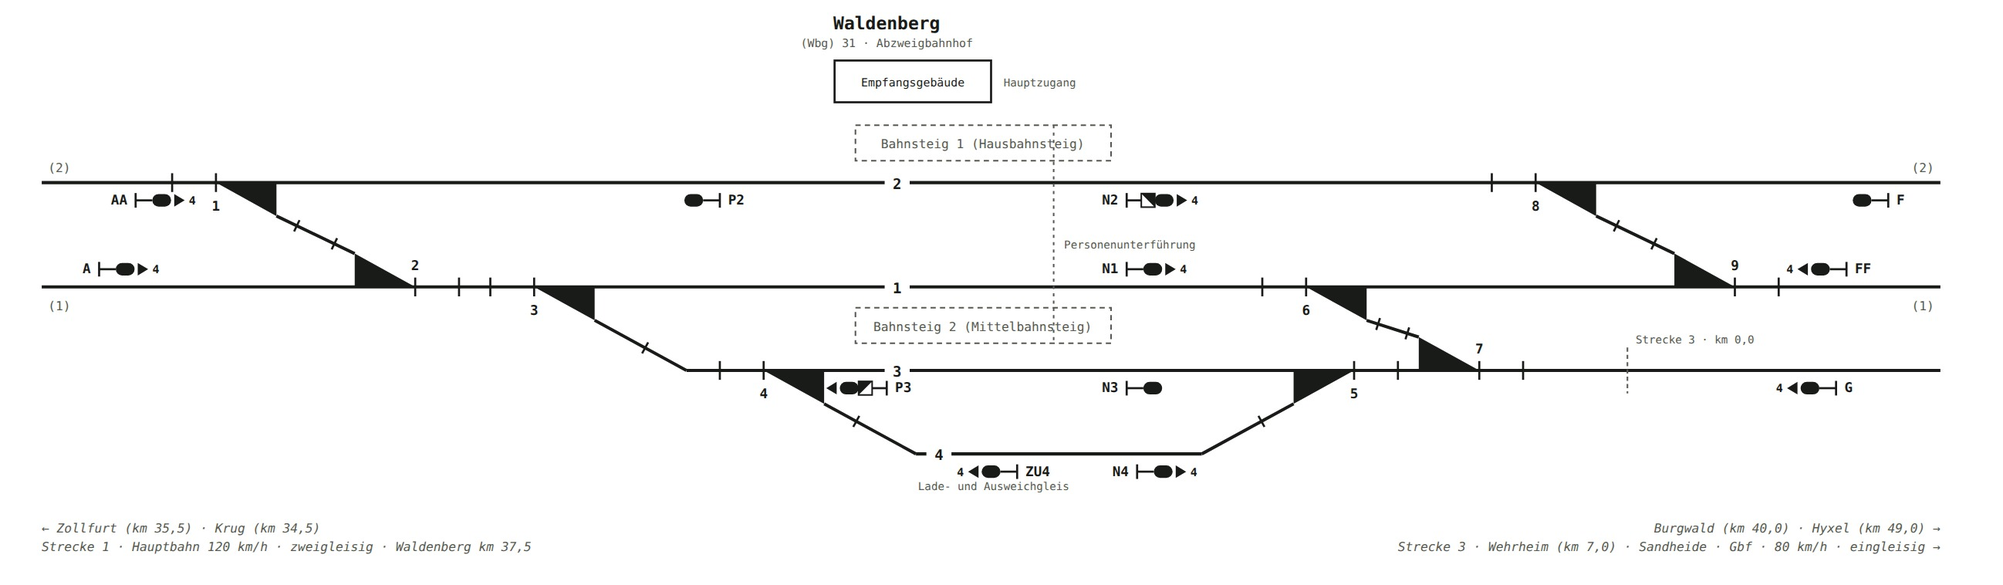
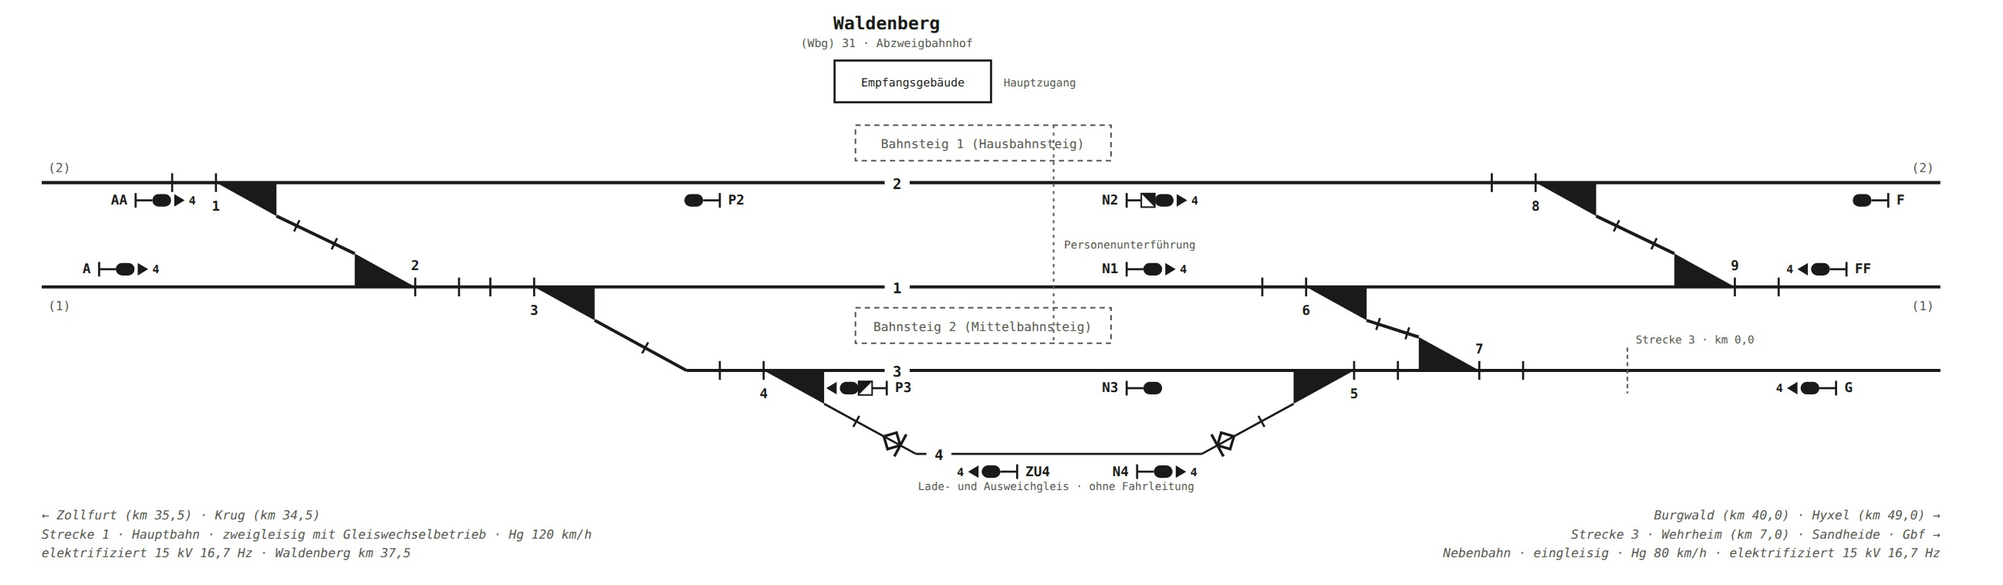
Waldenberg: Elektrifizierung darstellen
Einer der sieben geforderten Planungsinhalte des Aufgabenblattes fehlte
bisher vollstaendig.

Die Fahrleitung selbst gehoert nicht in den sicherungstechnischen
Lageplan – Ril 819.9002 fuehrt Schaltabschnittsgrenzen ausdruecklich mit
"keine Darstellung" und kennt nur ein Symbol fuer das nicht
elektrifizierte Gleis: eine Raute auf der Gleislinie mit senkrechtem
Strich, wobei der nicht elektrifizierte Bereich auf der Seite des
Striches liegt. Genau so ist es umgesetzt:

* Beide Strecken sind mit 15 kV 16,7 Hz elektrifiziert. Die Hauptbahn
  ist Bestandsstrecke, bei der Nebenbahn spart die Fahrleitung den
  sonst noetigen Traktionswechsel in Waldenberg – der Gueterverkehr zum
  Gbf und die Anschliesser Grossraffinerie und Getreidesilo liegen an
  dieser Strecke.
* Gleis 4 bleibt ohne Fahrleitung, weil unter Fahrdraht nicht be- und
  entladen werden darf. Das Symbol steht auf beiden Verbindungsrampen,
  nach Ril vom Weichensymbol weg in den nicht elektrifizierten Bereich
  verschoben.
* Gleis 4 ist Nebengleis und wird nach Ril 819.9002 Abschnitt 12 mit
  duennerer Gleislinie gezeichnet.
* Die Richtungshinweise an den Blatzraendern sind zu Streckenangaben im
  Ril-Muster erweitert: Bahnart, Gleiszahl, Hg und Elektrifizierung.

Legenden beider Blaetter und die Begleittexte sind mitgezogen; die
Legende des Zeichnungsblattes hat dafuer sieben statt sechs Felder.

Claude-Session: https://claude.ai/code/session_01946ufwtxKyfXxUR2Dq2NLD

diff --git a/lageplan-waldenberg.html b/lageplan-waldenberg.html
@@ -103,13 +103,13 @@
     </p>
 
     <div class="diagram-scroll">
-      <svg class="plan" viewBox="0 0 1920 560" role="img" aria-label="Sicherungstechnischer Lageplan des Abzweigbahnhofs Waldenberg. Die zweigleisige Hauptbahn (Strecke 1, Krug–Furth, km 37,5) läuft mit Gleis 2 (oben) und Gleis 1 (Mitte) durchgehend gerade durch die Betriebsstelle. Gleis 3 ist Bahnsteiggleis der eingleisigen Nebenbahn und geht östlich in die Strecke 3 nach Wehrheim–Sandheide–Gbf über, deren Kilometrierung hier bei km 0,0 beginnt. Gleis 4 liegt als Lade- und Ausweichgleis südlich davon und ist über die Weichen 4 und 5 an beiden Enden an Gleis 3 angebunden. Am Westkopf verbinden die Weichen 1 und 2 als Überleitverbinder Gleis 2 und Gleis 1, Weiche 3 führt von Gleis 1 auf Gleis 3. Am Ostkopf verbinden die Weichen 6 und 7 Gleis 1 mit der Nebenbahn, die Weichen 8 und 9 bilden einen zweiten Überleitverbinder zwischen Gleis 2 und Gleis 1. Bahnsteig 1 ist Hausbahnsteig an Gleis 2 am Empfangsgebäude, Bahnsteig 2 Mittelbahnsteig zwischen Gleis 1 und Gleis 3, verbunden über eine Personenunterführung. Einfahrsignale A und AA von Zollfurt, F und FF von Burgwald sowie G von Wehrheim; Ausfahrsignale N1, N2, N3, N4, P2 und P3 sowie Zwischensignal ZU4; N2 und P3 mit Gegengleisanzeiger für die Weiterfahrt auf dem Streckengleis der Gegenrichtung.">
+      <svg class="plan" viewBox="0 0 1920 560" role="img" aria-label="Sicherungstechnischer Lageplan des Abzweigbahnhofs Waldenberg. Die zweigleisige Hauptbahn (Strecke 1, Krug–Furth, km 37,5) läuft mit Gleis 2 (oben) und Gleis 1 (Mitte) durchgehend gerade durch die Betriebsstelle. Gleis 3 ist Bahnsteiggleis der eingleisigen Nebenbahn und geht östlich in die Strecke 3 nach Wehrheim–Sandheide–Gbf über, deren Kilometrierung hier bei km 0,0 beginnt. Gleis 4 liegt als Lade- und Ausweichgleis südlich davon und ist über die Weichen 4 und 5 an beiden Enden an Gleis 3 angebunden. Am Westkopf verbinden die Weichen 1 und 2 als Überleitverbinder Gleis 2 und Gleis 1, Weiche 3 führt von Gleis 1 auf Gleis 3. Am Ostkopf verbinden die Weichen 6 und 7 Gleis 1 mit der Nebenbahn, die Weichen 8 und 9 bilden einen zweiten Überleitverbinder zwischen Gleis 2 und Gleis 1. Bahnsteig 1 ist Hausbahnsteig an Gleis 2 am Empfangsgebäude, Bahnsteig 2 Mittelbahnsteig zwischen Gleis 1 und Gleis 3, verbunden über eine Personenunterführung. Einfahrsignale A und AA von Zollfurt, F und FF von Burgwald sowie G von Wehrheim; Ausfahrsignale N1, N2, N3, N4, P2 und P3 sowie Zwischensignal ZU4; N2 und P3 mit Gegengleisanzeiger für die Weiterfahrt auf dem Streckengleis der Gegenrichtung. Beide Strecken sind mit 15 kV 16,7 Hz elektrifiziert; Gleis 4 ist nicht elektrifiziert und an beiden Verbindungsrampen mit dem Symbol für nicht elektrifiziertes Gleis gekennzeichnet.">
         <text x="850" y="28" text-anchor="middle" font-size="17" font-weight="700" fill="currentColor">Waldenberg</text>
         <text x="850" y="45" text-anchor="middle" font-size="11" fill="var(--ink-soft)">(Wbg) 31 · Abzweigbahnhof</text>
         <g stroke="currentColor" fill="none" stroke-width="3"><line x1="40" y1="275" x2="1860" y2="275"/><line x1="40" y1="175" x2="1860" y2="175"/></g>
         <g stroke="currentColor" fill="none" stroke-width="3"><line x1="658" y1="355" x2="1860" y2="355"/></g>
-        <line x1="878" y1="435" x2="1152" y2="435" stroke="currentColor" fill="none" stroke-width="3"/>
-        <text x="880" y="470" font-size="10.5" fill="var(--ink-soft)">Lade- und Ausweichgleis</text>
+        <line x1="878" y1="435" x2="1152" y2="435" stroke="currentColor" fill="none" stroke-width="2"/>
+        <text x="880" y="470" font-size="10.5" fill="var(--ink-soft)">Lade- und Ausweichgleis · ohne Fahrleitung</text>
         <line x1="165" y1="166" x2="165" y2="184" stroke="currentColor" stroke-width="2"/>
 <line x1="207" y1="166" x2="207" y2="184" stroke="currentColor" stroke-width="2"/>
 <polygon points="207,175 265,175 265,207" fill="currentColor"/>
@@ -131,14 +131,16 @@
 <line x1="732" y1="346" x2="732" y2="364" stroke="currentColor" stroke-width="2"/>
 <polygon points="732,355 790,355 790,387" fill="currentColor"/>
 <text x="732" y="382" text-anchor="middle" font-size="13" font-weight="600" fill="currentColor">4</text>
-        <line x1="790" y1="387" x2="878" y2="435" stroke="currentColor" stroke-width="3"/>
+        <line x1="790" y1="387" x2="878" y2="435" stroke="currentColor" stroke-width="2"/>
         <line x1="817.9" y1="409.1" x2="823.7" y2="398.5" stroke="currentColor" stroke-width="2"/>
+        <g transform="translate(855.1,422.5) rotate(28.61)"><polygon points="-9,0 0,-9 9,0 0,9" fill="none" stroke="currentColor" stroke-width="2.5"/><line x1="9" y1="-12" x2="9" y2="12" stroke="currentColor" stroke-width="2.5"/></g>
         <line x1="1340" y1="346" x2="1340" y2="364" stroke="currentColor" stroke-width="2"/>
 <line x1="1298" y1="346" x2="1298" y2="364" stroke="currentColor" stroke-width="2"/>
 <polygon points="1298,355 1240,355 1240,387" fill="currentColor"/>
 <text x="1298" y="382" text-anchor="middle" font-size="13" font-weight="600" fill="currentColor">5</text>
-        <line x1="1240" y1="387" x2="1152" y2="435" stroke="currentColor" stroke-width="3"/>
+        <line x1="1240" y1="387" x2="1152" y2="435" stroke="currentColor" stroke-width="2"/>
         <line x1="1206.3" y1="398.5" x2="1212.1" y2="409.1" stroke="currentColor" stroke-width="2"/>
+        <g transform="translate(1174.9,422.5) rotate(151.39)"><polygon points="-9,0 0,-9 9,0 0,9" fill="none" stroke="currentColor" stroke-width="2.5"/><line x1="9" y1="-12" x2="9" y2="12" stroke="currentColor" stroke-width="2.5"/></g>
         <line x1="1210" y1="266" x2="1210" y2="284" stroke="currentColor" stroke-width="2"/>
 <line x1="1252" y1="266" x2="1252" y2="284" stroke="currentColor" stroke-width="2"/>
 <polygon points="1252,275 1310,275 1310,307" fill="currentColor"/>
@@ -235,7 +237,7 @@
 <text x="1768" y="376" font-size="13" font-weight="600" fill="currentColor">G</text>
         <line x1="1560" y1="333" x2="1560" y2="377" stroke="var(--ink-soft)" stroke-width="1.5" stroke-dasharray="4,3"/>
         <text x="1568" y="329" font-size="10.5" fill="var(--ink-soft)">Strecke 3 · km 0,0</text>
-        <g fill="var(--ink-soft)" font-size="12" font-style="italic"><text x="40" y="510">← Zollfurt (km 35,5) · Krug (km 34,5)</text><text x="40" y="528">Strecke 1 · Hauptbahn 120 km/h · zweigleisig · Waldenberg km 37,5</text><text x="1860" y="510" text-anchor="end">Burgwald (km 40,0) · Hyxel (km 49,0) →</text><text x="1860" y="528" text-anchor="end">Strecke 3 · Wehrheim (km 7,0) · Sandheide · Gbf · 80 km/h · eingleisig →</text></g>
+        <g fill="var(--ink-soft)" font-size="12" font-style="italic"><text x="40" y="498">← Zollfurt (km 35,5) · Krug (km 34,5)</text><text x="40" y="516">Strecke 1 · Hauptbahn · zweigleisig mit Gleiswechselbetrieb · Hg 120 km/h</text><text x="40" y="534">elektrifiziert 15 kV 16,7 Hz · Waldenberg km 37,5</text><text x="1860" y="498" text-anchor="end">Burgwald (km 40,0) · Hyxel (km 49,0) →</text><text x="1860" y="516" text-anchor="end">Strecke 3 · Wehrheim (km 7,0) · Sandheide · Gbf →</text><text x="1860" y="534" text-anchor="end">Nebenbahn · eingleisig · Hg 80 km/h · elektrifiziert 15 kV 16,7 Hz</text></g>
       </svg>
     </div>
 
@@ -252,6 +254,9 @@
       <span>AA und FF decken Einfahrten von Zügen, die auf der freien Strecke bereits auf dem Gegengleis ankommen.</span>
       <span>Gleis 3 und die Anbindung Gleis 1 → Nebenbahn (Weichen 6/7) sind voneinander unabhängig befahrbar.</span>
       <span>Gleis 4 ist Lade- und Ausweichgleis ohne Bahnsteig, an beiden Enden an Gleis 3 angebunden.</span>
+      <span>Beide Strecken elektrifiziert 15 kV 16,7 Hz. Die Fahrleitung selbst wird im sicherungstechnischen Lageplan nicht dargestellt; Schaltabschnittsgrenzen bleiben nach Ril 819.9002 ohne Darstellung.</span>
+      <span>Gleis 4 ohne Fahrleitung: unter Fahrdraht darf nicht be- und entladen werden. Gekennzeichnet mit dem Symbol „nicht elektrifiziertes Gleis“ – der Strich steht auf der nicht elektrifizierten Seite.</span>
+      <span>Gleis 4 ist Nebengleis und deshalb mit dünnerer Gleislinie gezeichnet (Ril 819.9002 Abschnitt 12).</span>
     </div>
   </section>
 
@@ -318,6 +323,23 @@
           </table>
         </div>
       </div>
+    </div>
+
+    <div class="caveat">
+      <strong>Elektrifizierung:</strong> Die Hauptbahn Krug–Furth ist Bestandsstrecke und damit
+      nach Vorgabe elektrifiziert. Die Nebenbahn Waldenberg–Gbf bekommt ebenfalls Fahrleitung:
+      Der gesamte Güterverkehr zum Güterbahnhof sowie die Anschließer Großraffinerie und
+      Getreidesilo liegen an dieser Strecke, und die Reisezüge gehen durchgehend von der
+      Hauptbahn auf die Nebenbahn über. Ohne Fahrleitung bräuchte jeder dieser Züge in
+      Waldenberg einen Traktionswechsel – also ein zusätzliches Gleis zum Umsetzen,
+      Rangierpersonal und Standzeit, und das täglich mehrfach. Die Fahrleitung über 29,5 km
+      ist dagegen einmalige Investition ohne laufenden Betriebsaufwand.
+      <strong>Gleis 4 bleibt bewusst ohne Fahrleitung</strong>, weil unter Fahrdraht nicht be-
+      und entladen werden darf; der Übergabezug Üg 1 wird dort mit Diesel bedient. Als
+      Überholungsgleis für elektrische Züge steht Gleis 4 damit nicht zur Verfügung – dafür
+      gibt es Gleis 3. Im sicherungstechnischen Lageplan wird die Fahrleitung selbst nicht
+      gezeichnet; dargestellt wird nach Ril 819.9002 Abschnitt 12 nur, welches Gleis
+      <em>nicht</em> elektrifiziert ist.
     </div>
 
     <div class="caveat">
@@ -393,6 +415,14 @@
           <rect x="2" y="3" width="30" height="13" fill="none" stroke="currentColor" stroke-width="2"/>
         </svg>
         <span>Gebäude (Empfangsgebäude)</span>
+      </div>
+      <div class="legend-item">
+        <svg width="46" height="22" viewBox="0 0 46 22" aria-hidden="true">
+          <line x1="0" y1="11" x2="46" y2="11" stroke="currentColor" stroke-width="2"/>
+          <polygon points="14,11 22,3 30,11 22,19" fill="none" stroke="currentColor" stroke-width="2"/>
+          <line x1="30" y1="1" x2="30" y2="21" stroke="currentColor" stroke-width="2"/>
+        </svg>
+        <span>Nicht elektrifiziertes Gleis – der nicht elektrifizierte Bereich liegt auf der Seite des Striches</span>
       </div>
     </div>
   </section>

diff --git a/zeichnung-waldenberg.html b/zeichnung-waldenberg.html
@@ -22,8 +22,8 @@
         <text x="850" y="45" text-anchor="middle" font-size="11" fill="#333333">(Wbg) 31 · Abzweigbahnhof</text>
         <g stroke="#000000" fill="none" stroke-width="3"><line x1="40" y1="275" x2="1860" y2="275"/><line x1="40" y1="175" x2="1860" y2="175"/></g>
         <g stroke="#000000" fill="none" stroke-width="3"><line x1="658" y1="355" x2="1860" y2="355"/></g>
-        <line x1="878" y1="435" x2="1152" y2="435" stroke="#000000" fill="none" stroke-width="3"/>
-        <text x="880" y="470" font-size="10.5" fill="#333333">Lade- und Ausweichgleis</text>
+        <line x1="878" y1="435" x2="1152" y2="435" stroke="#000000" fill="none" stroke-width="2"/>
+        <text x="880" y="470" font-size="10.5" fill="#333333">Lade- und Ausweichgleis · ohne Fahrleitung</text>
         <line x1="165" y1="166" x2="165" y2="184" stroke="#000000" stroke-width="2"/>
 <line x1="207" y1="166" x2="207" y2="184" stroke="#000000" stroke-width="2"/>
 <polygon points="207,175 265,175 265,207" fill="#000000"/>
@@ -45,14 +45,16 @@
 <line x1="732" y1="346" x2="732" y2="364" stroke="#000000" stroke-width="2"/>
 <polygon points="732,355 790,355 790,387" fill="#000000"/>
 <text x="732" y="382" text-anchor="middle" font-size="13" font-weight="600" fill="#000000">4</text>
-        <line x1="790" y1="387" x2="878" y2="435" stroke="#000000" stroke-width="3"/>
+        <line x1="790" y1="387" x2="878" y2="435" stroke="#000000" stroke-width="2"/>
         <line x1="817.9" y1="409.1" x2="823.7" y2="398.5" stroke="#000000" stroke-width="2"/>
+        <g transform="translate(855.1,422.5) rotate(28.61)"><polygon points="-9,0 0,-9 9,0 0,9" fill="none" stroke="#000000" stroke-width="2.5"/><line x1="9" y1="-12" x2="9" y2="12" stroke="#000000" stroke-width="2.5"/></g>
         <line x1="1340" y1="346" x2="1340" y2="364" stroke="#000000" stroke-width="2"/>
 <line x1="1298" y1="346" x2="1298" y2="364" stroke="#000000" stroke-width="2"/>
 <polygon points="1298,355 1240,355 1240,387" fill="#000000"/>
 <text x="1298" y="382" text-anchor="middle" font-size="13" font-weight="600" fill="#000000">5</text>
-        <line x1="1240" y1="387" x2="1152" y2="435" stroke="#000000" stroke-width="3"/>
+        <line x1="1240" y1="387" x2="1152" y2="435" stroke="#000000" stroke-width="2"/>
         <line x1="1206.3" y1="398.5" x2="1212.1" y2="409.1" stroke="#000000" stroke-width="2"/>
+        <g transform="translate(1174.9,422.5) rotate(151.39)"><polygon points="-9,0 0,-9 9,0 0,9" fill="none" stroke="#000000" stroke-width="2.5"/><line x1="9" y1="-12" x2="9" y2="12" stroke="#000000" stroke-width="2.5"/></g>
         <line x1="1210" y1="266" x2="1210" y2="284" stroke="#000000" stroke-width="2"/>
 <line x1="1252" y1="266" x2="1252" y2="284" stroke="#000000" stroke-width="2"/>
 <polygon points="1252,275 1310,275 1310,307" fill="#000000"/>
@@ -149,29 +151,32 @@
 <text x="1768" y="376" font-size="13" font-weight="600" fill="#000000">G</text>
         <line x1="1560" y1="333" x2="1560" y2="377" stroke="#333333" stroke-width="1.5" stroke-dasharray="4,3"/>
         <text x="1568" y="329" font-size="10.5" fill="#333333">Strecke 3 · km 0,0</text>
-        <g fill="#333333" font-size="12" font-style="italic"><text x="40" y="510">← Zollfurt (km 35,5) · Krug (km 34,5)</text><text x="40" y="528">Strecke 1 · Hauptbahn 120 km/h · zweigleisig · Waldenberg km 37,5</text><text x="1860" y="510" text-anchor="end">Burgwald (km 40,0) · Hyxel (km 49,0) →</text><text x="1860" y="528" text-anchor="end">Strecke 3 · Wehrheim (km 7,0) · Sandheide · Gbf · 80 km/h · eingleisig →</text></g>
+        <g fill="#333333" font-size="12" font-style="italic"><text x="40" y="498">← Zollfurt (km 35,5) · Krug (km 34,5)</text><text x="40" y="516">Strecke 1 · Hauptbahn · zweigleisig mit Gleiswechselbetrieb · Hg 120 km/h</text><text x="40" y="534">elektrifiziert 15 kV 16,7 Hz · Waldenberg km 37,5</text><text x="1860" y="498" text-anchor="end">Burgwald (km 40,0) · Hyxel (km 49,0) →</text><text x="1860" y="516" text-anchor="end">Strecke 3 · Wehrheim (km 7,0) · Sandheide · Gbf →</text><text x="1860" y="534" text-anchor="end">Nebenbahn · eingleisig · Hg 80 km/h · elektrifiziert 15 kV 16,7 Hz</text></g>
 </g>
 <g font-family="IBM Plex Mono, monospace">
 <rect x="60" y="900" width="940" height="176" fill="none" stroke="#000" stroke-width="1.5"/>
-<g transform="translate(66,974)"><line x1="0" y1="8" x2="52" y2="8" stroke="#000" stroke-width="1.5"/><line x1="5" y1="3" x2="5" y2="13" stroke="#000" stroke-width="1.2"/><line x1="18" y1="3" x2="18" y2="13" stroke="#000" stroke-width="1.2"/><polygon points="18,8 36,8 36,17" fill="#000"/></g>
-<text x="138" y="992" font-size="10" fill="#000">Weiche fern</text>
-<line x1="216.667" y1="900" x2="216.667" y2="1076" stroke="#000" stroke-width="1"/>
-<g transform="translate(226.667,979)"><line x1="2" y1="1" x2="2" y2="15" stroke="#000" stroke-width="1.5"/><line x1="2" y1="8" x2="14" y2="8" stroke="#000" stroke-width="1.5"/><rect x="14" y="2" width="16" height="11" rx="5.5" fill="#000"/></g>
-<text x="294.667" y="992" font-size="10" fill="#000">Ks-Signal</text>
-<line x1="373.333" y1="900" x2="373.333" y2="1076" stroke="#000" stroke-width="1"/>
-<g transform="translate(383.333,979)"><rect x="2" y="2" width="24" height="13" fill="none" stroke="#000" stroke-width="1.5"/></g>
-<text x="451.333" y="992" font-size="10" fill="#000">Gebäude</text>
-<line x1="530" y1="900" x2="530" y2="1076" stroke="#000" stroke-width="1"/>
-<g transform="translate(540,979)"><line x1="2" y1="1" x2="2" y2="15" stroke="#000" stroke-width="1.5"/><line x1="2" y1="8" x2="14" y2="8" stroke="#000" stroke-width="1.5"/><rect x="14" y="2" width="16" height="11" rx="5.5" fill="#000"/><polygon points="33,2 42,8 33,14" fill="#000"/></g>
-<text x="608" y="992" font-size="10" fill="#000">Zs 3</text>
-<line x1="686.667" y1="900" x2="686.667" y2="1076" stroke="#000" stroke-width="1"/>
-<g transform="translate(696.667,979)"><line x1="0" y1="8" x2="26" y2="8" stroke="#000" stroke-width="1.5"/><rect x="8" y="1" width="12" height="14" fill="#fff" stroke="#000" stroke-width="1"/><text x="14" y="12" text-anchor="middle" font-size="10" font-weight="600" fill="#000">1</text></g>
-<text x="764.667" y="992" font-size="10" fill="#000">Gleisnr.</text>
-<line x1="843.333" y1="900" x2="843.333" y2="1076" stroke="#000" stroke-width="1"/>
-<g transform="translate(853.333,972)"><line x1="0" y1="8" x2="26" y2="8" stroke="#000" stroke-width="1.5" stroke-dasharray="3,3"/><text x="13" y="26" text-anchor="middle" font-size="9" fill="#000">km 0,0</text></g>
-<text x="915" y="992" font-size="9.5" fill="#000">Streckengrenze</text>
+<g transform="translate(66.00,974)"><line x1="0" y1="8" x2="50" y2="8" stroke="#000" stroke-width="1.5"/><line x1="5" y1="3" x2="5" y2="13" stroke="#000" stroke-width="1.2"/><line x1="17" y1="3" x2="17" y2="13" stroke="#000" stroke-width="1.2"/><polygon points="17,8 34,8 34,17" fill="#000"/></g>
+<text x="122.00" y="992" font-size="9" fill="#000">Weiche fern</text>
+<line x1="194.29" y1="900" x2="194.29" y2="1076" stroke="#000" stroke-width="1"/>
+<g transform="translate(200.29,979)"><line x1="2" y1="1" x2="2" y2="15" stroke="#000" stroke-width="1.5"/><line x1="2" y1="8" x2="14" y2="8" stroke="#000" stroke-width="1.5"/><rect x="14" y="2" width="16" height="11" rx="5.5" fill="#000"/></g>
+<text x="256.29" y="992" font-size="9" fill="#000">Ks-Signal</text>
+<line x1="328.57" y1="900" x2="328.57" y2="1076" stroke="#000" stroke-width="1"/>
+<g transform="translate(334.57,979)"><line x1="2" y1="1" x2="2" y2="15" stroke="#000" stroke-width="1.5"/><line x1="2" y1="8" x2="14" y2="8" stroke="#000" stroke-width="1.5"/><rect x="14" y="2" width="16" height="11" rx="5.5" fill="#000"/><polygon points="33,2 42,8 33,14" fill="#000"/></g>
+<text x="390.57" y="992" font-size="9" fill="#000">Zs 3</text>
+<line x1="462.86" y1="900" x2="462.86" y2="1076" stroke="#000" stroke-width="1"/>
+<g transform="translate(468.86,979)"><line x1="0" y1="8" x2="26" y2="8" stroke="#000" stroke-width="1.5"/><rect x="8" y="1" width="12" height="14" fill="#fff" stroke="#000" stroke-width="1"/><text x="14" y="12" text-anchor="middle" font-size="10" font-weight="600" fill="#000">1</text></g>
+<text x="524.86" y="992" font-size="9" fill="#000">Gleisnr.</text>
+<line x1="597.14" y1="900" x2="597.14" y2="1076" stroke="#000" stroke-width="1"/>
+<g transform="translate(603.14,979)"><rect x="2" y="2" width="22" height="12" fill="none" stroke="#000" stroke-width="1.5"/></g>
+<text x="659.14" y="992" font-size="9" fill="#000">Gebäude</text>
+<line x1="731.43" y1="900" x2="731.43" y2="1076" stroke="#000" stroke-width="1"/>
+<g transform="translate(737.43,972)"><line x1="0" y1="8" x2="26" y2="8" stroke="#000" stroke-width="1.5" stroke-dasharray="3,3"/><text x="13" y="26" text-anchor="middle" font-size="8.5" fill="#000">km 0,0</text></g>
+<text x="793.43" y="992" font-size="9" fill="#000">Str.-Grenze</text>
+<line x1="865.71" y1="900" x2="865.71" y2="1076" stroke="#000" stroke-width="1"/>
+<g transform="translate(871.71,979)"><line x1="0" y1="8" x2="40" y2="8" stroke="#000" stroke-width="1.5"/><polygon points="11,8 18,1 25,8 18,15" fill="none" stroke="#000" stroke-width="1.5"/><line x1="25" y1="0" x2="25" y2="16" stroke="#000" stroke-width="1.5"/></g>
+<text x="927.71" y="992" font-size="9" fill="#000">o. Fahrltg.</text>
 </g>
-<text x="68" y="1094" font-size="10" fill="#000" font-family="IBM Plex Mono, monospace">Alle Weichen EW 1:9, 40 km/h · Gegengleisanzeiger an N2 und P3 · AA und FF für Ankunft auf dem Gegengleis · Gleis 4 = Lade- und Ausweichgleis</text>
+<text x="68" y="1094" font-size="10" fill="#000" font-family="IBM Plex Mono, monospace">Alle Weichen EW 1:9, 40 km/h · Gegengleisanzeiger an N2 und P3 · beide Strecken elektrifiziert 15 kV 16,7 Hz · Gleis 4 = Lade- und Ausweichgleis, Nebengleis ohne Fahrleitung</text>
 <g font-family="IBM Plex Mono, monospace">
 <rect x="1050" y="900" width="490" height="176" fill="none" stroke="#000" stroke-width="2"/>
 <line x1="1050" y1="944" x2="1540" y2="944" stroke="#000" stroke-width="1"/>

diff --git a/tools/build_waldenberg.py b/tools/build_waldenberg.py
@@ -25,7 +25,9 @@ ARIA = ("Sicherungstechnischer Lageplan des Abzweigbahnhofs Waldenberg. Die zwei
         "und Gleis 3, verbunden über eine Personenunterführung. Einfahrsignale A und AA von "
         "Zollfurt, F und FF von Burgwald sowie G von Wehrheim; Ausfahrsignale N1, N2, N3, N4, P2 "
         "und P3 sowie Zwischensignal ZU4; N2 und P3 mit Gegengleisanzeiger für die "
-        "Weiterfahrt auf dem Streckengleis der Gegenrichtung.")
+        "Weiterfahrt auf dem Streckengleis der Gegenrichtung. Beide Strecken sind mit "
+        "15 kV 16,7 Hz elektrifiziert; Gleis 4 ist nicht elektrifiziert und an beiden "
+        "Verbindungsrampen mit dem Symbol für nicht elektrifiziertes Gleis gekennzeichnet.")
 
 LAGEPLAN = """<!DOCTYPE html>
 <html lang="de">
@@ -150,6 +152,9 @@ LAGEPLAN = """<!DOCTYPE html>
       <span>AA und FF decken Einfahrten von Zügen, die auf der freien Strecke bereits auf dem Gegengleis ankommen.</span>
       <span>Gleis 3 und die Anbindung Gleis 1 → Nebenbahn (Weichen 6/7) sind voneinander unabhängig befahrbar.</span>
       <span>Gleis 4 ist Lade- und Ausweichgleis ohne Bahnsteig, an beiden Enden an Gleis 3 angebunden.</span>
+      <span>Beide Strecken elektrifiziert 15 kV 16,7 Hz. Die Fahrleitung selbst wird im sicherungstechnischen Lageplan nicht dargestellt; Schaltabschnittsgrenzen bleiben nach Ril 819.9002 ohne Darstellung.</span>
+      <span>Gleis 4 ohne Fahrleitung: unter Fahrdraht darf nicht be- und entladen werden. Gekennzeichnet mit dem Symbol „nicht elektrifiziertes Gleis“ – der Strich steht auf der nicht elektrifizierten Seite.</span>
+      <span>Gleis 4 ist Nebengleis und deshalb mit dünnerer Gleislinie gezeichnet (Ril 819.9002 Abschnitt 12).</span>
     </div>
   </section>
 
@@ -216,6 +221,23 @@ LAGEPLAN = """<!DOCTYPE html>
           </table>
         </div>
       </div>
+    </div>
+
+    <div class="caveat">
+      <strong>Elektrifizierung:</strong> Die Hauptbahn Krug–Furth ist Bestandsstrecke und damit
+      nach Vorgabe elektrifiziert. Die Nebenbahn Waldenberg–Gbf bekommt ebenfalls Fahrleitung:
+      Der gesamte Güterverkehr zum Güterbahnhof sowie die Anschließer Großraffinerie und
+      Getreidesilo liegen an dieser Strecke, und die Reisezüge gehen durchgehend von der
+      Hauptbahn auf die Nebenbahn über. Ohne Fahrleitung bräuchte jeder dieser Züge in
+      Waldenberg einen Traktionswechsel – also ein zusätzliches Gleis zum Umsetzen,
+      Rangierpersonal und Standzeit, und das täglich mehrfach. Die Fahrleitung über 29,5 km
+      ist dagegen einmalige Investition ohne laufenden Betriebsaufwand.
+      <strong>Gleis 4 bleibt bewusst ohne Fahrleitung</strong>, weil unter Fahrdraht nicht be-
+      und entladen werden darf; der Übergabezug Üg 1 wird dort mit Diesel bedient. Als
+      Überholungsgleis für elektrische Züge steht Gleis 4 damit nicht zur Verfügung – dafür
+      gibt es Gleis 3. Im sicherungstechnischen Lageplan wird die Fahrleitung selbst nicht
+      gezeichnet; dargestellt wird nach Ril 819.9002 Abschnitt 12 nur, welches Gleis
+      <em>nicht</em> elektrifiziert ist.
     </div>
 
     <div class="caveat">
@@ -292,6 +314,14 @@ LAGEPLAN = """<!DOCTYPE html>
         </svg>
         <span>Gebäude (Empfangsgebäude)</span>
       </div>
+      <div class="legend-item">
+        <svg width="46" height="22" viewBox="0 0 46 22" aria-hidden="true">
+          <line x1="0" y1="11" x2="46" y2="11" stroke="currentColor" stroke-width="2"/>
+          <polygon points="14,11 22,3 30,11 22,19" fill="none" stroke="currentColor" stroke-width="2"/>
+          <line x1="30" y1="1" x2="30" y2="21" stroke="currentColor" stroke-width="2"/>
+        </svg>
+        <span>Nicht elektrifiziertes Gleis – der nicht elektrifizierte Bereich liegt auf der Seite des Striches</span>
+      </div>
     </div>
   </section>
 
@@ -326,25 +356,28 @@ ZEICHNUNG = """<!DOCTYPE html>
 </g>
 <g font-family="IBM Plex Mono, monospace">
 <rect x="60" y="900" width="940" height="176" fill="none" stroke="#000" stroke-width="1.5"/>
-<g transform="translate(66,974)"><line x1="0" y1="8" x2="52" y2="8" stroke="#000" stroke-width="1.5"/><line x1="5" y1="3" x2="5" y2="13" stroke="#000" stroke-width="1.2"/><line x1="18" y1="3" x2="18" y2="13" stroke="#000" stroke-width="1.2"/><polygon points="18,8 36,8 36,17" fill="#000"/></g>
-<text x="138" y="992" font-size="10" fill="#000">Weiche fern</text>
-<line x1="216.667" y1="900" x2="216.667" y2="1076" stroke="#000" stroke-width="1"/>
-<g transform="translate(226.667,979)"><line x1="2" y1="1" x2="2" y2="15" stroke="#000" stroke-width="1.5"/><line x1="2" y1="8" x2="14" y2="8" stroke="#000" stroke-width="1.5"/><rect x="14" y="2" width="16" height="11" rx="5.5" fill="#000"/></g>
-<text x="294.667" y="992" font-size="10" fill="#000">Ks-Signal</text>
-<line x1="373.333" y1="900" x2="373.333" y2="1076" stroke="#000" stroke-width="1"/>
-<g transform="translate(383.333,979)"><rect x="2" y="2" width="24" height="13" fill="none" stroke="#000" stroke-width="1.5"/></g>
-<text x="451.333" y="992" font-size="10" fill="#000">Gebäude</text>
-<line x1="530" y1="900" x2="530" y2="1076" stroke="#000" stroke-width="1"/>
-<g transform="translate(540,979)"><line x1="2" y1="1" x2="2" y2="15" stroke="#000" stroke-width="1.5"/><line x1="2" y1="8" x2="14" y2="8" stroke="#000" stroke-width="1.5"/><rect x="14" y="2" width="16" height="11" rx="5.5" fill="#000"/><polygon points="33,2 42,8 33,14" fill="#000"/></g>
-<text x="608" y="992" font-size="10" fill="#000">Zs 3</text>
-<line x1="686.667" y1="900" x2="686.667" y2="1076" stroke="#000" stroke-width="1"/>
-<g transform="translate(696.667,979)"><line x1="0" y1="8" x2="26" y2="8" stroke="#000" stroke-width="1.5"/><rect x="8" y="1" width="12" height="14" fill="#fff" stroke="#000" stroke-width="1"/><text x="14" y="12" text-anchor="middle" font-size="10" font-weight="600" fill="#000">1</text></g>
-<text x="764.667" y="992" font-size="10" fill="#000">Gleisnr.</text>
-<line x1="843.333" y1="900" x2="843.333" y2="1076" stroke="#000" stroke-width="1"/>
-<g transform="translate(853.333,972)"><line x1="0" y1="8" x2="26" y2="8" stroke="#000" stroke-width="1.5" stroke-dasharray="3,3"/><text x="13" y="26" text-anchor="middle" font-size="9" fill="#000">km 0,0</text></g>
-<text x="915" y="992" font-size="9.5" fill="#000">Streckengrenze</text>
+<g transform="translate(66.00,974)"><line x1="0" y1="8" x2="50" y2="8" stroke="#000" stroke-width="1.5"/><line x1="5" y1="3" x2="5" y2="13" stroke="#000" stroke-width="1.2"/><line x1="17" y1="3" x2="17" y2="13" stroke="#000" stroke-width="1.2"/><polygon points="17,8 34,8 34,17" fill="#000"/></g>
+<text x="122.00" y="992" font-size="9" fill="#000">Weiche fern</text>
+<line x1="194.29" y1="900" x2="194.29" y2="1076" stroke="#000" stroke-width="1"/>
+<g transform="translate(200.29,979)"><line x1="2" y1="1" x2="2" y2="15" stroke="#000" stroke-width="1.5"/><line x1="2" y1="8" x2="14" y2="8" stroke="#000" stroke-width="1.5"/><rect x="14" y="2" width="16" height="11" rx="5.5" fill="#000"/></g>
+<text x="256.29" y="992" font-size="9" fill="#000">Ks-Signal</text>
+<line x1="328.57" y1="900" x2="328.57" y2="1076" stroke="#000" stroke-width="1"/>
+<g transform="translate(334.57,979)"><line x1="2" y1="1" x2="2" y2="15" stroke="#000" stroke-width="1.5"/><line x1="2" y1="8" x2="14" y2="8" stroke="#000" stroke-width="1.5"/><rect x="14" y="2" width="16" height="11" rx="5.5" fill="#000"/><polygon points="33,2 42,8 33,14" fill="#000"/></g>
+<text x="390.57" y="992" font-size="9" fill="#000">Zs 3</text>
+<line x1="462.86" y1="900" x2="462.86" y2="1076" stroke="#000" stroke-width="1"/>
+<g transform="translate(468.86,979)"><line x1="0" y1="8" x2="26" y2="8" stroke="#000" stroke-width="1.5"/><rect x="8" y="1" width="12" height="14" fill="#fff" stroke="#000" stroke-width="1"/><text x="14" y="12" text-anchor="middle" font-size="10" font-weight="600" fill="#000">1</text></g>
+<text x="524.86" y="992" font-size="9" fill="#000">Gleisnr.</text>
+<line x1="597.14" y1="900" x2="597.14" y2="1076" stroke="#000" stroke-width="1"/>
+<g transform="translate(603.14,979)"><rect x="2" y="2" width="22" height="12" fill="none" stroke="#000" stroke-width="1.5"/></g>
+<text x="659.14" y="992" font-size="9" fill="#000">Gebäude</text>
+<line x1="731.43" y1="900" x2="731.43" y2="1076" stroke="#000" stroke-width="1"/>
+<g transform="translate(737.43,972)"><line x1="0" y1="8" x2="26" y2="8" stroke="#000" stroke-width="1.5" stroke-dasharray="3,3"/><text x="13" y="26" text-anchor="middle" font-size="8.5" fill="#000">km 0,0</text></g>
+<text x="793.43" y="992" font-size="9" fill="#000">Str.-Grenze</text>
+<line x1="865.71" y1="900" x2="865.71" y2="1076" stroke="#000" stroke-width="1"/>
+<g transform="translate(871.71,979)"><line x1="0" y1="8" x2="40" y2="8" stroke="#000" stroke-width="1.5"/><polygon points="11,8 18,1 25,8 18,15" fill="none" stroke="#000" stroke-width="1.5"/><line x1="25" y1="0" x2="25" y2="16" stroke="#000" stroke-width="1.5"/></g>
+<text x="927.71" y="992" font-size="9" fill="#000">o. Fahrltg.</text>
 </g>
-<text x="68" y="1094" font-size="10" fill="#000" font-family="IBM Plex Mono, monospace">Alle Weichen EW 1:9, 40 km/h · Gegengleisanzeiger an N2 und P3 · AA und FF für Ankunft auf dem Gegengleis · Gleis 4 = Lade- und Ausweichgleis</text>
+<text x="68" y="1094" font-size="10" fill="#000" font-family="IBM Plex Mono, monospace">Alle Weichen EW 1:9, 40 km/h · Gegengleisanzeiger an N2 und P3 · beide Strecken elektrifiziert 15 kV 16,7 Hz · Gleis 4 = Lade- und Ausweichgleis, Nebengleis ohne Fahrleitung</text>
 <g font-family="IBM Plex Mono, monospace">
 <rect x="1050" y="900" width="490" height="176" fill="none" stroke="#000" stroke-width="2"/>
 <line x1="1050" y1="944" x2="1540" y2="944" stroke="#000" stroke-width="1"/>

diff --git a/tools/waldenberg.py b/tools/waldenberg.py
@@ -123,6 +123,29 @@ def gleissperre(x, y, nr, c, surface):
     ])
 
 
+def ohne_fahrleitung(x1, y1, x2, y2, t, seite, c):
+    """Symbol "Nicht elektrifiziertes Gleis" nach Ril 819.9002 Abschnitt 12:
+    Raute auf der Gleislinie mit senkrechtem Strich; der nicht elektrifizierte
+    Bereich liegt auf der Seite des Striches. Das Symbol sitzt im Punkt t der
+    Strecke (x1,y1)->(x2,y2) und liegt in deren Richtung; seite = +1 zeigt den
+    nicht elektrifizierten Bereich nach (x2,y2), seite = -1 nach (x1,y1).
+    Die Ril verlangt, das Symbol vom Weichensymbol weg in den nicht
+    elektrifizierten Bereich zu schieben, bis es sich nicht mehr ueberlagert.
+    Die Fahrleitung selbst wird im sicherungstechnischen Lageplan nicht
+    dargestellt, Schaltabschnittsgrenzen bleiben nach Ril 819.9002A01 ohne
+    Darstellung."""
+    r = 9
+    x = x1 + (x2 - x1) * t
+    y = y1 + (y2 - y1) * t
+    w = math.degrees(math.atan2(y2 - y1, x2 - x1))
+    sx = seite * r
+    return (f'<g transform="translate({x:.1f},{y:.1f}) rotate({w:.2f})">'
+            f'<polygon points="{-r},0 0,{-r} {r},0 0,{r}" '
+            f'fill="none" stroke="{c}" stroke-width="2.5"/>'
+            f'<line x1="{sx}" y1="{-r-3}" x2="{sx}" y2="{r+3}" '
+            f'stroke="{c}" stroke-width="2.5"/></g>')
+
+
 def gleisnummer(x, y, n, c, surface):
     return (f'<rect x="{x-12}" y="{y-10}" width="24" height="20" fill="{surface}"/>'
             f'<text x="{x}" y="{y+6}" text-anchor="middle" font-size="14" '
@@ -146,9 +169,10 @@ def build(c, soft, surface):
     A(f'<g stroke="{c}" fill="none" stroke-width="3">'
       f'<line x1="658" y1="{G3}" x2="{X1}" y2="{G3}"/></g>')
 
-    # ---- Gleis 4: Lade- und Ausweichgleis, an beiden Enden an Gleis 3 angebunden ----
-    A(f'<line x1="878" y1="{G4}" x2="1152" y2="{G4}" stroke="{c}" fill="none" stroke-width="3"/>')
-    A(f'<text x="880" y="{G4+35}" font-size="10.5" fill="{soft}">Lade- und Ausweichgleis</text>')
+    # ---- Gleis 4: Lade- und Ausweichgleis, an beiden Enden an Gleis 3 angebunden.
+    # Nebengleis -> duennere Gleislinie nach Ril 819.9002 Abschnitt 12.
+    A(f'<line x1="878" y1="{G4}" x2="1152" y2="{G4}" stroke="{c}" fill="none" stroke-width="2"/>')
+    A(f'<text x="880" y="{G4+35}" font-size="10.5" fill="{soft}">Lade- und Ausweichgleis · ohne Fahrleitung</text>')
 
     # ---- Westkopf: W1/W2 Ueberleitverbinder ----
     A(weiche(165, 207, 265, G2, KEIL, 1, c, soft))
@@ -164,8 +188,10 @@ def build(c, soft, surface):
 
     # ---- W4: Westanbindung Gleis 3 -> Gleis 4 ----
     A(weiche(690, 732, 790, G3, KEIL, 4, c, soft))
-    A(f'<line x1="790" y1="{G3+KEIL}" x2="878" y2="{G4}" stroke="{c}" stroke-width="3"/>')
+    A(f'<line x1="790" y1="{G3+KEIL}" x2="878" y2="{G4}" stroke="{c}" stroke-width="2"/>')
     A(gz_auf(790, G3 + KEIL, 878, G4, 0.35, c))
+    # Gleis 4 ohne Fahrleitung: Ladearbeiten unter Fahrdraht sind nicht zulaessig
+    A(ohne_fahrleitung(790, G3 + KEIL, 878, G4, 0.74, 1, c))
 
     # ---- Ostkopf: W6/W7 Anbindung Gleis 1 -> Nebenbahn, oestlich des Bahnsteigs.
     # Damit faehrt ein Zug aus Gleis 1 auf die Nebenbahn aus, waehrend in Gleis 3
@@ -173,8 +199,9 @@ def build(c, soft, surface):
     # W5: Ostanbindung Gleis 3 -> Gleis 4, Zungen oestlich, damit die Ausfahrt aus
     # Gleis 4 den Bahnsteigabschnitt von Gleis 3 nicht beruehrt
     A(weiche(1340, 1298, 1240, G3, KEIL, 5, c, soft))
-    A(f'<line x1="1240" y1="{G3+KEIL}" x2="1152" y2="{G4}" stroke="{c}" stroke-width="3"/>')
+    A(f'<line x1="1240" y1="{G3+KEIL}" x2="1152" y2="{G4}" stroke="{c}" stroke-width="2"/>')
     A(gz_auf(1240, G3 + KEIL, 1152, G4, 0.35, c))
+    A(ohne_fahrleitung(1240, G3 + KEIL, 1152, G4, 0.74, 1, c))
 
     # W6/W7: Anbindung Gleis 1 -> Nebenbahn, oestlich des Bahnsteigs
     A(weiche(1210, 1252, 1310, G1, KEIL, 6, c, soft))
@@ -264,10 +291,12 @@ def build(c, soft, surface):
 
     # ---- Richtungshinweise ----
     A(f'<g fill="{soft}" font-size="12" font-style="italic">'
-      f'<text x="{X0}" y="510">← Zollfurt (km 35,5) · Krug (km 34,5)</text>'
-      f'<text x="{X0}" y="528">Strecke 1 · Hauptbahn 120 km/h · zweigleisig · Waldenberg km 37,5</text>'
-      f'<text x="{X1}" y="510" text-anchor="end">Burgwald (km 40,0) · Hyxel (km 49,0) →</text>'
-      f'<text x="{X1}" y="528" text-anchor="end">Strecke 3 · Wehrheim (km 7,0) · Sandheide · Gbf · 80 km/h · eingleisig →</text>'
+      f'<text x="{X0}" y="498">← Zollfurt (km 35,5) · Krug (km 34,5)</text>'
+      f'<text x="{X0}" y="516">Strecke 1 · Hauptbahn · zweigleisig mit Gleiswechselbetrieb · Hg 120 km/h</text>'
+      f'<text x="{X0}" y="534">elektrifiziert 15 kV 16,7 Hz · Waldenberg km 37,5</text>'
+      f'<text x="{X1}" y="498" text-anchor="end">Burgwald (km 40,0) · Hyxel (km 49,0) →</text>'
+      f'<text x="{X1}" y="516" text-anchor="end">Strecke 3 · Wehrheim (km 7,0) · Sandheide · Gbf →</text>'
+      f'<text x="{X1}" y="534" text-anchor="end">Nebenbahn · eingleisig · Hg 80 km/h · elektrifiziert 15 kV 16,7 Hz</text>'
       f'</g>')
 
     return "\n        ".join(s)

diff --git a/tools/README.md b/tools/README.md
@@ -35,6 +35,12 @@ Pfad lässt sich über die Umgebungsvariable `CHROMIUM_PATH` setzen.
   Gegengleisanzeiger nur dort, wo die Ausfahrt auf dem Streckengleis der
   Gegenrichtung weitergehen kann. Wer Gleisnummern tauscht oder Weichenzungen
   umdreht, muss beides neu aus der Geometrie herleiten.
+* **Die Fahrleitung selbst wird im sicherungstechnischen Lageplan nicht gezeichnet.**
+  Schaltabschnittsgrenzen sind nach Ril 819.9002 ausdrücklich ohne Darstellung.
+  Gekennzeichnet wird nur, welches Gleis *nicht* elektrifiziert ist – Raute auf der
+  Gleislinie, Strich auf der nicht elektrifizierten Seite (`ohne_fahrleitung()`).
+  Die Streckendaten inklusive Elektrifizierung stehen in den Streckenangaben an den
+  Blatträndern.
 * Nach jeder Änderung das Ergebnis ansehen, bevor committet wird: Signale und
   Weichen liegen dicht beieinander, Überlappungen fallen nur im Bild auf.
 
